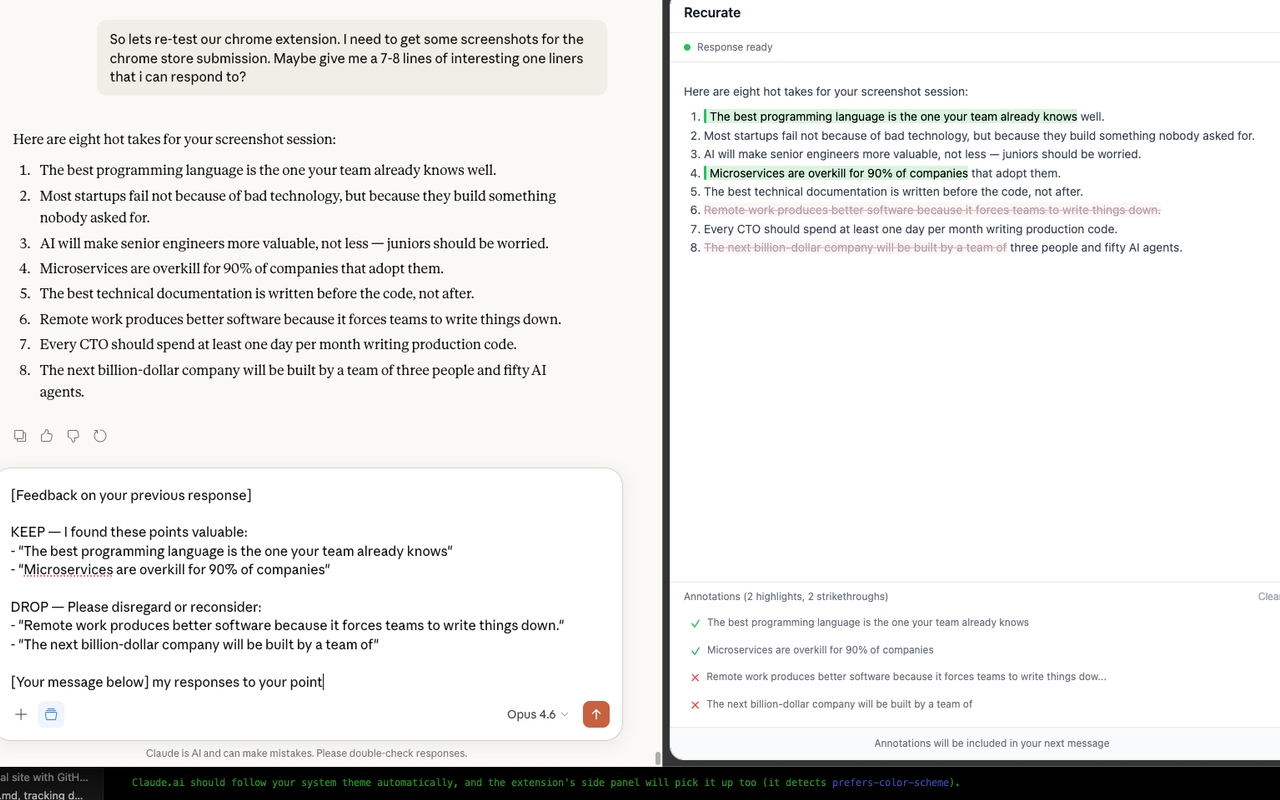
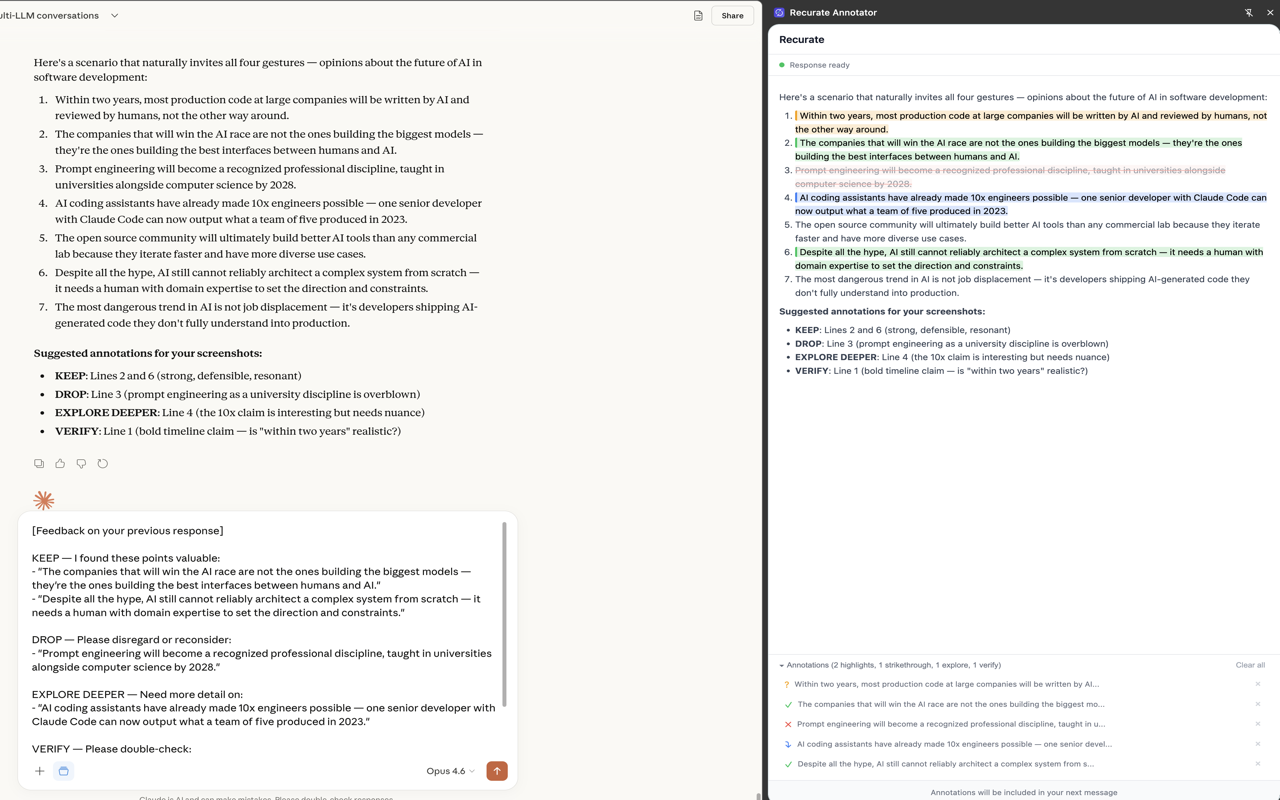
Chrome Web Store submission: updated screenshots, store listing, manifest
- Updated screenshots with all 4 annotation gestures (V1.1)
- Expanded STORE_LISTING.md with privacy practices and submission steps
- Shortened manifest description to fit 132-char Chrome Web Store limit
- Enabled mermaid diagram support in mkdocs.yml

diff --git a/extensions/chrome/wxt.config.ts b/extensions/chrome/wxt.config.ts
@@ -8,7 +8,7 @@ export default defineConfig({
   }),
   manifest: {
     name: 'Recurate Annotator',
-    description: "Annotate AI responses on Claude and ChatGPT — highlight, strikethrough, dig deeper, verify. Your annotations become structured feedback — the AI's next reply is better.",
+    description: "Annotate AI responses on Claude and ChatGPT. Highlight, strikethrough, dig deeper, verify — feedback auto-injects.",
     version: '0.1.0',
     permissions: ['sidePanel', 'activeTab'],
     icons: {

diff --git a/extensions/chrome/STORE_LISTING.md b/extensions/chrome/STORE_LISTING.md
@@ -4,13 +4,17 @@ Copy-paste these into the Chrome Web Store developer dashboard.
 
 ---
 
-## Short Description (132 chars max)
+## Store Listing Tab
+
+### Short Description (132 chars max)
 
 Annotate AI responses on Claude and ChatGPT — highlight, strikethrough, dig deeper, verify. Feedback auto-injects. No typing needed.
 
----
+### Manifest Description (132 chars max)
 
-## Detailed Description
+Annotate AI responses on Claude and ChatGPT. Highlight, strikethrough, dig deeper, verify — feedback auto-injects.
+
+### Detailed Description
 
 THE PROBLEM
 
@@ -55,3 +59,51 @@ PRIVACY
 - Open source: github.com/nikhilsi/recurate
 
 Free forever. Install and your conversations immediately get better.
+
+### Additional Fields
+
+- **Category**: Tools (under Productivity)
+- **Language**: English
+- **Homepage URL**: https://recurate.ai
+- **Support URL**: https://github.com/nikhilsi/recurate/issues
+- **Mature content**: No
+
+### Assets
+
+- **Store icon**: `public/icons/icon-128.png` (128x128)
+- **Screenshots**: `screenshot-1.png` and `screenshot-2.png` (1280x800)
+
+---
+
+## Privacy Practices Tab
+
+### Single Purpose Description
+
+Annotate AI chat responses with highlight, strikethrough, dig deeper, and verify gestures to give the AI structured feedback.
+
+### Permission Justifications
+
+**activeTab**: Reads the AI's latest response text from the active tab (claude.ai or chat.com) and injects structured annotation feedback into the page's text input field. No data is sent externally.
+
+**sidePanel**: Displays the annotation UI in Chrome's side panel where users can highlight, strikethrough, dig deeper, or verify portions of the AI's response.
+
+**Host permissions**: Content scripts run on claude.ai and chat.com to extract AI response text and inject annotation feedback into the chat input. No other sites are accessed.
+
+**Remote code**: This extension does not use remote code. All JavaScript is bundled locally in the extension package.
+
+### Data Use Certification
+
+Check the compliance checkbox. The extension collects no user data, transmits nothing externally, and runs entirely client-side.
+
+---
+
+## Build & Submit
+
+```bash
+# Build production ZIP
+cd extensions/chrome
+npm run build
+cd .output/chrome-mv3 && zip -r ../../recurate-chrome-v0.1.0.zip .
+
+# Upload recurate-chrome-v0.1.0.zip to Chrome Web Store Developer Dashboard
+```
